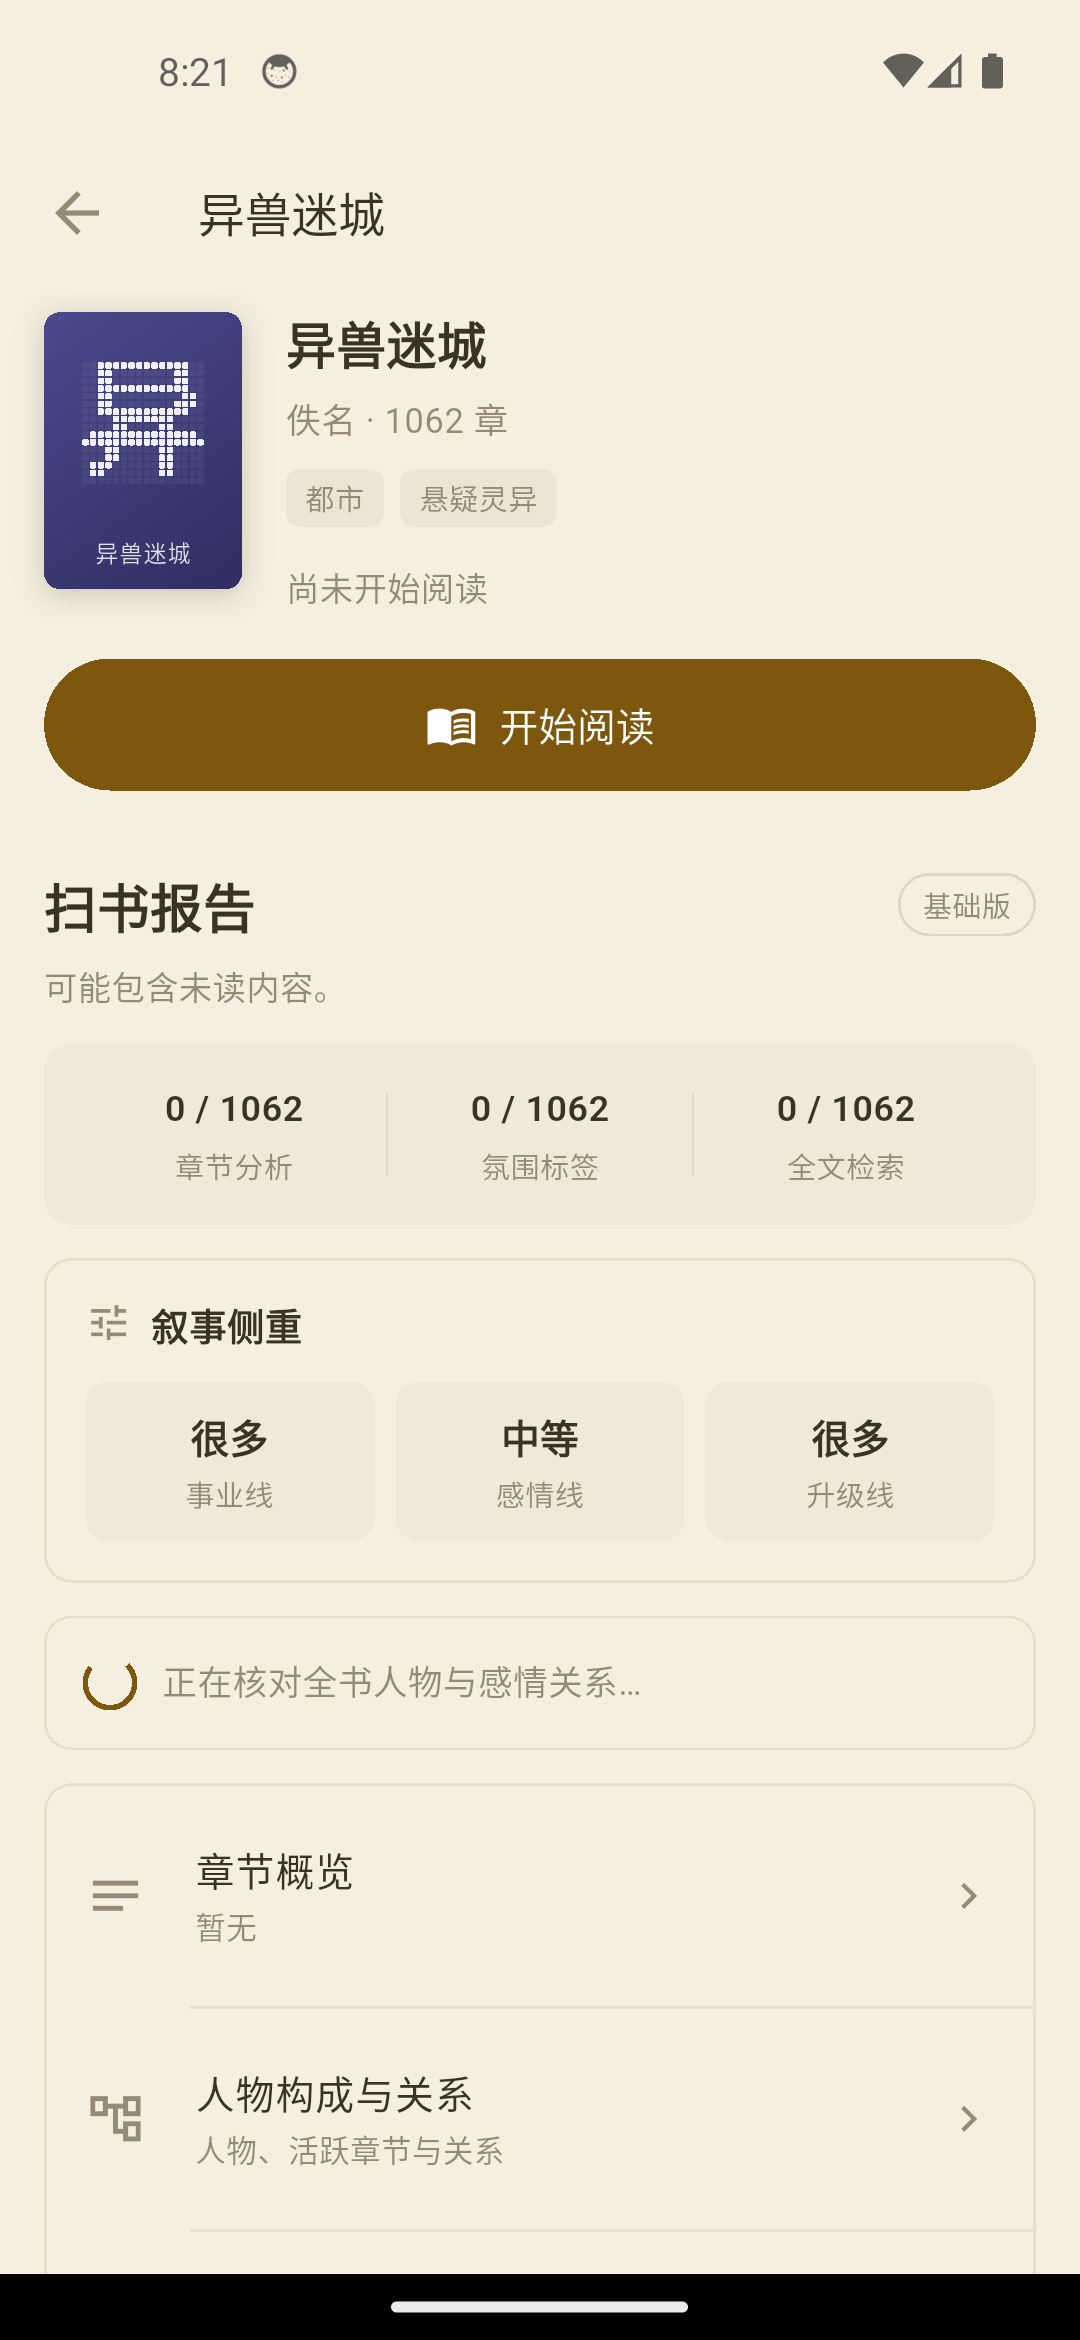
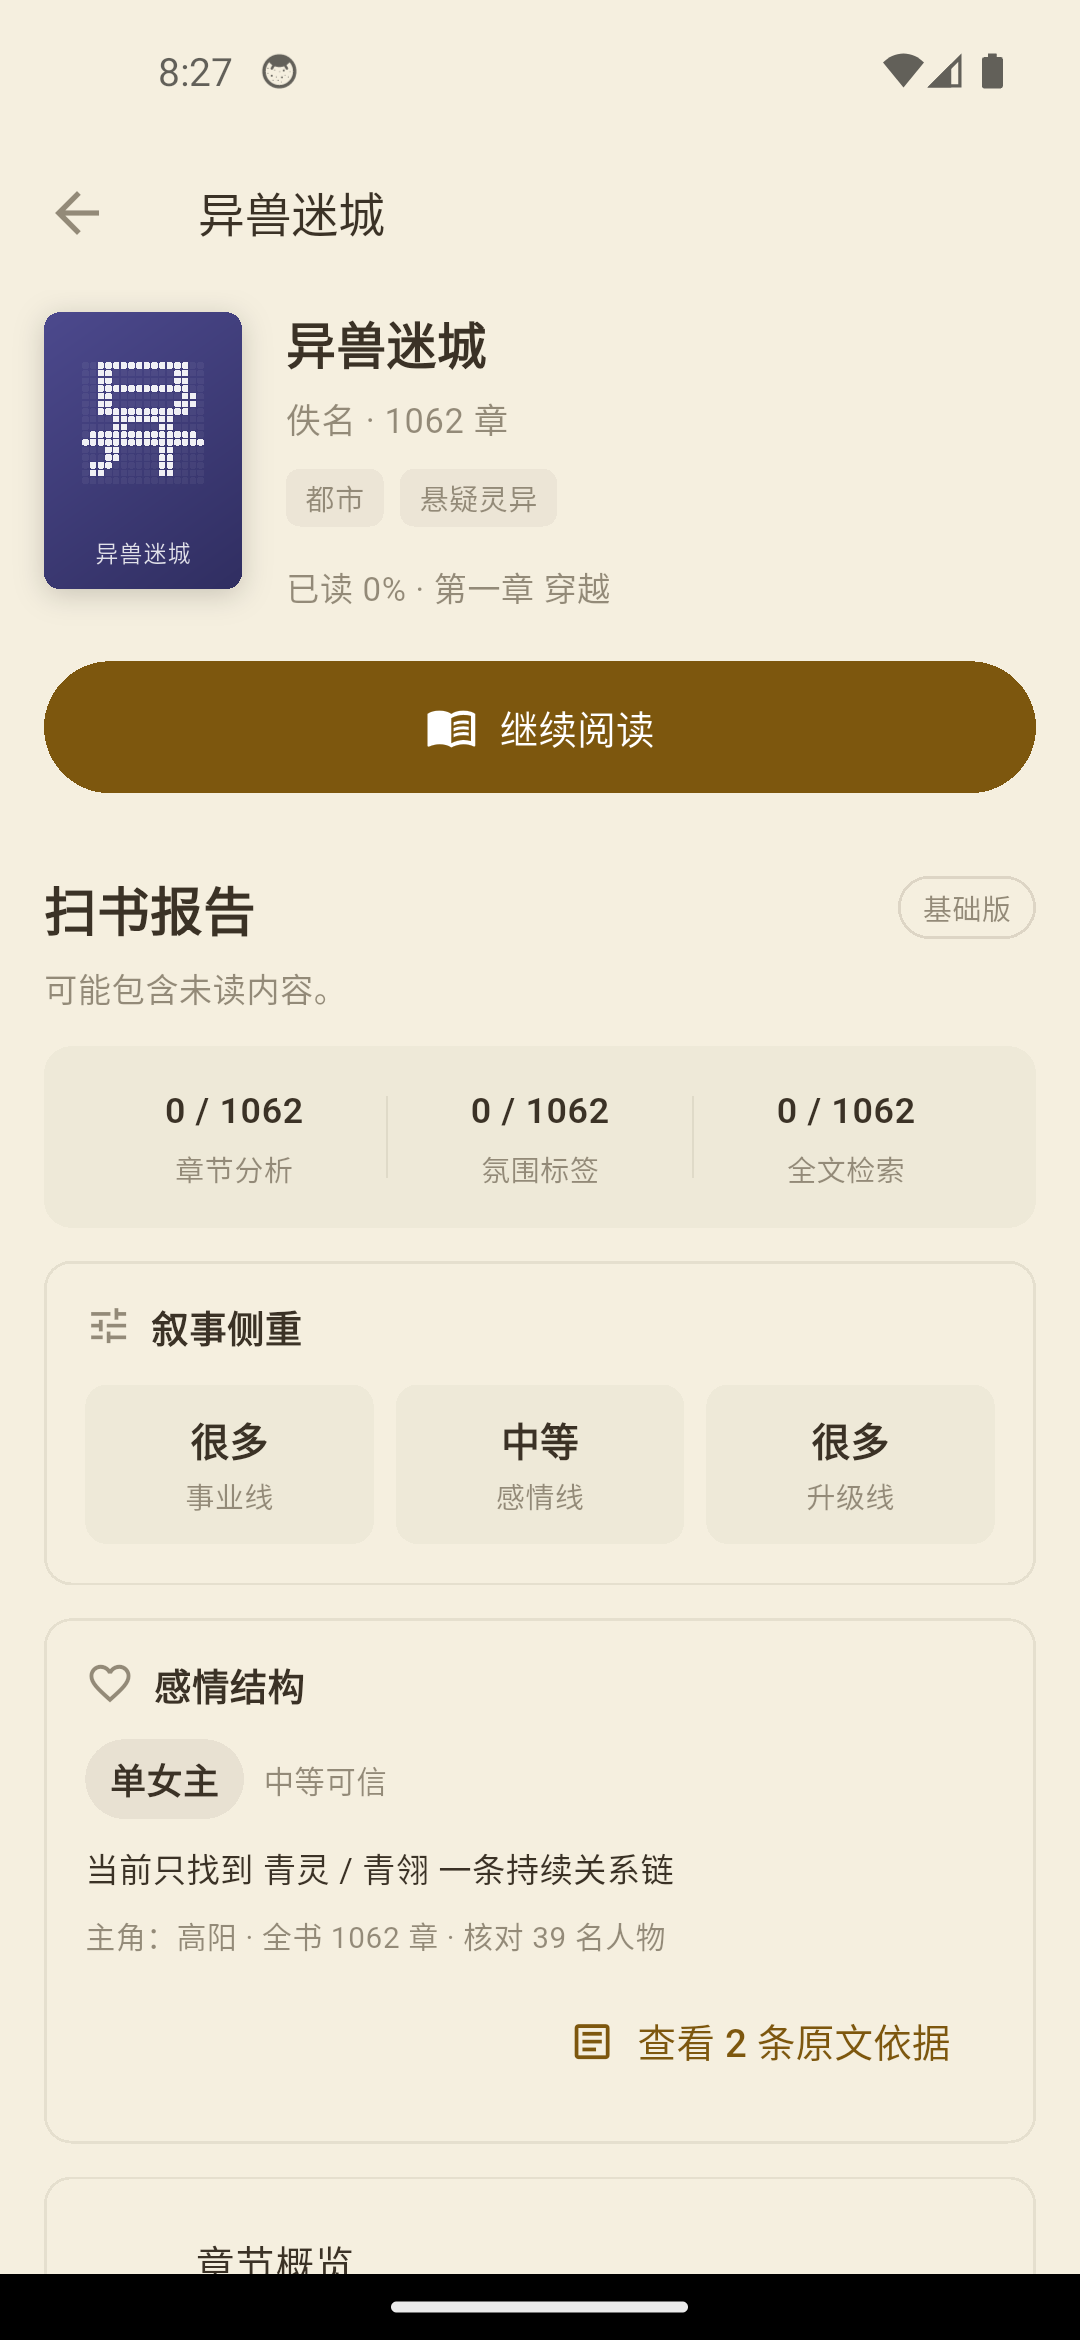
Use real reader screenshots

diff --git a/docs/index.html b/docs/index.html
@@ -44,13 +44,11 @@
         <figure class="shot tall"><img src="assets/android-book-detail.png" alt="Novel book detail page"><figcaption>01 · Book detail and pre-reading entry</figcaption></figure>
         <figure class="shot"><img src="assets/android-reader-open.png" alt="Novel reading page"><figcaption>02 · Focused reading view</figcaption></figure>
         <figure class="shot"><img src="assets/android-test-annotation-saved.png" alt="Novel annotation saved in a chapter"><figcaption>03 · A note anchored to the original text</figcaption></figure>
-        <figure class="shot"><img src="assets/android-test-detail2.png" alt="Cast composition and relationship structure"><figcaption>04 · Cast composition and relationship structure</figcaption></figure>
-        <figure class="shot"><img src="assets/android-test-toc-open2.png" alt="Chapter overview and current reading position"><figcaption>05 · Chapter overview and reading position</figcaption></figure>
+        <figure class="shot"><img src="assets/cast-graph-real.png" alt="Cast composition and relationship structure"><figcaption>04 · Cast composition and relationship structure</figcaption></figure>
+        <figure class="shot"><img src="assets/chapter-overview-real.png" alt="Chapter overview and current reading position"><figcaption>05 · Chapter overview and reading position</figcaption></figure>
         <figure class="shot"><img src="assets/android-test-ai-runtime-mobile.png" alt="Dynamic workload settings"><figcaption>06 · Dynamic workload settings</figcaption></figure>
-        <figure class="shot"><img src="assets/cast-graph.svg" alt="Cast relationship graph interface illustration"><figcaption>07 · Cast relationship graph illustration</figcaption></figure>
-        <figure class="shot"><img src="assets/mood-chart.svg" alt="Chapter mood and pacing chart interface illustration"><figcaption>08 · Chapter mood and pacing chart illustration</figcaption></figure>
       </div>
-      <div style="margin-top:24px" class="quote">The English interface does not automatically add English novel support; the current analysis pipeline is dedicated to Chinese web fiction.</div>
+      <div style="margin-top:24px" class="quote">These cast-graph and chapter-overview images are real captures from the current app. The English interface does not automatically add English novel support; the current analysis pipeline is dedicated to Chinese web fiction.</div>
     </section>
 
     <section id="edge" class="wrap">

diff --git a/docs/zh.html b/docs/zh.html
@@ -41,13 +41,12 @@
     <section id="screens" class="wrap">
       <div class="section-head"><div><div class="eyebrow">当前中文流程</div><h2>从选书，到看懂一本长篇。</h2></div><p>以下展示聚焦当前真正支持的中文网文体验：人物关系、章节概览、氛围节奏和边缘设备负载。</p></div>
       <div class="screens">
-        <figure class="shot tall"><img src="assets/android-test-detail2.png" alt="Novel 人物构成与感情结构"><figcaption>01 · 人物构成与感情结构</figcaption></figure>
-        <figure class="shot"><img src="assets/android-test-toc-open2.png" alt="Novel 章节目录与阅读位置"><figcaption>02 · 章节目录与阅读位置</figcaption></figure>
+        <figure class="shot tall"><img src="assets/android-book-detail.png" alt="Novel 书籍详情与扫书报告"><figcaption>01 · 书籍详情与扫书报告</figcaption></figure>
+        <figure class="shot"><img src="assets/chapter-overview-real.png" alt="Novel 章节目录与阅读位置"><figcaption>02 · 章节目录与阅读位置</figcaption></figure>
         <figure class="shot"><img src="assets/android-test-ai-runtime-mobile.png" alt="Novel 动态负载设置"><figcaption>03 · 动态负载与后台策略</figcaption></figure>
-        <figure class="shot"><img src="assets/cast-graph.svg" alt="Novel 人物关系图界面示意"><figcaption>04 · 人物关系图（界面示意）</figcaption></figure>
-        <figure class="shot"><img src="assets/mood-chart.svg" alt="Novel 章节氛围与节奏图界面示意"><figcaption>05 · 章节氛围与节奏图（界面示意）</figcaption></figure>
+        <figure class="shot"><img src="assets/cast-graph-real.png" alt="Novel 人物关系图"><figcaption>04 · 人物关系图</figcaption></figure>
       </div>
-      <div style="margin-top:24px" class="quote">当前小说能力只针对中文网文进行调试。界面可以切换为 English，但这不代表英文小说导入、章节识别和分析已经支持。</div>
+      <div style="margin-top:24px" class="quote">以上人物关系图和章节概览均为当前应用真实截图。小说能力只针对中文网文进行调试；界面可以切换为 English，但这不代表英文小说导入、章节识别和分析已经支持。</div>
     </section>
 
     <section id="edge" class="wrap">

diff --git a/README_ZH.md b/README_ZH.md
@@ -58,17 +58,12 @@
 ### 扫书报告内部界面
 
 <p align="center">
-  <img src="docs/assets/android-test-detail2.png" width="31%" alt="人物构成与感情结构">
-  <img src="docs/assets/android-test-toc-open2.png" width="31%" alt="章节目录与阅读位置">
+  <img src="docs/assets/cast-graph-real.png" width="31%" alt="人物构成与感情结构">
+  <img src="docs/assets/chapter-overview-real.png" width="31%" alt="章节目录与阅读位置">
   <img src="docs/assets/android-test-ai-runtime-mobile.png" width="31%" alt="动态负载设置">
 </p>
 
-<p align="center">
-  <img src="docs/assets/cast-graph.svg" width="47%" alt="人物关系图界面示意">
-  <img src="docs/assets/mood-chart.svg" width="47%" alt="章节氛围与节奏图界面示意">
-</p>
-
-截图来自当前中文阅读流程：书籍详情、阅读界面、标注、人物关系与感情结构、章节概览、阅读位置和动态负载设置。人物关系图与氛围/节奏图为展示用界面示意，具体数据仍以应用实际分析结果为准。
+截图来自当前中文阅读流程：书籍详情、阅读界面、标注、人物关系与感情结构、章节概览、阅读位置和动态负载设置。人物关系图与章节概览均为应用真实截图，具体数据仍以应用实际分析结果为准。
 
 ## 当前内容支持范围
 

diff --git a/README.md b/README.md
@@ -58,17 +58,12 @@ This short English passage is original showcase copy. It is not a bundled test n
 ### Inside the scan report
 
 <p align="center">
-  <img src="docs/assets/android-test-detail2.png" width="31%" alt="Cast composition and relationship structure">
-  <img src="docs/assets/android-test-toc-open2.png" width="31%" alt="Chapter overview and current reading position">
+  <img src="docs/assets/cast-graph-real.png" width="31%" alt="Cast composition and relationship structure">
+  <img src="docs/assets/chapter-overview-real.png" width="31%" alt="Chapter overview and current reading position">
   <img src="docs/assets/android-test-ai-runtime-mobile.png" width="31%" alt="Dynamic workload settings">
 </p>
 
-<p align="center">
-  <img src="docs/assets/cast-graph.svg" width="47%" alt="Cast relationship graph interface illustration">
-  <img src="docs/assets/mood-chart.svg" width="47%" alt="Chapter mood and pacing chart interface illustration">
-</p>
-
-The cast graph and mood chart are interface illustrations for the planned report surface; the underlying evidence remains tied to Chinese novel chapters.
+The cast graph and chapter overview above are real captures from the app. The underlying evidence remains tied to Chinese novel chapters.
 
 ## Current Content Support
 
